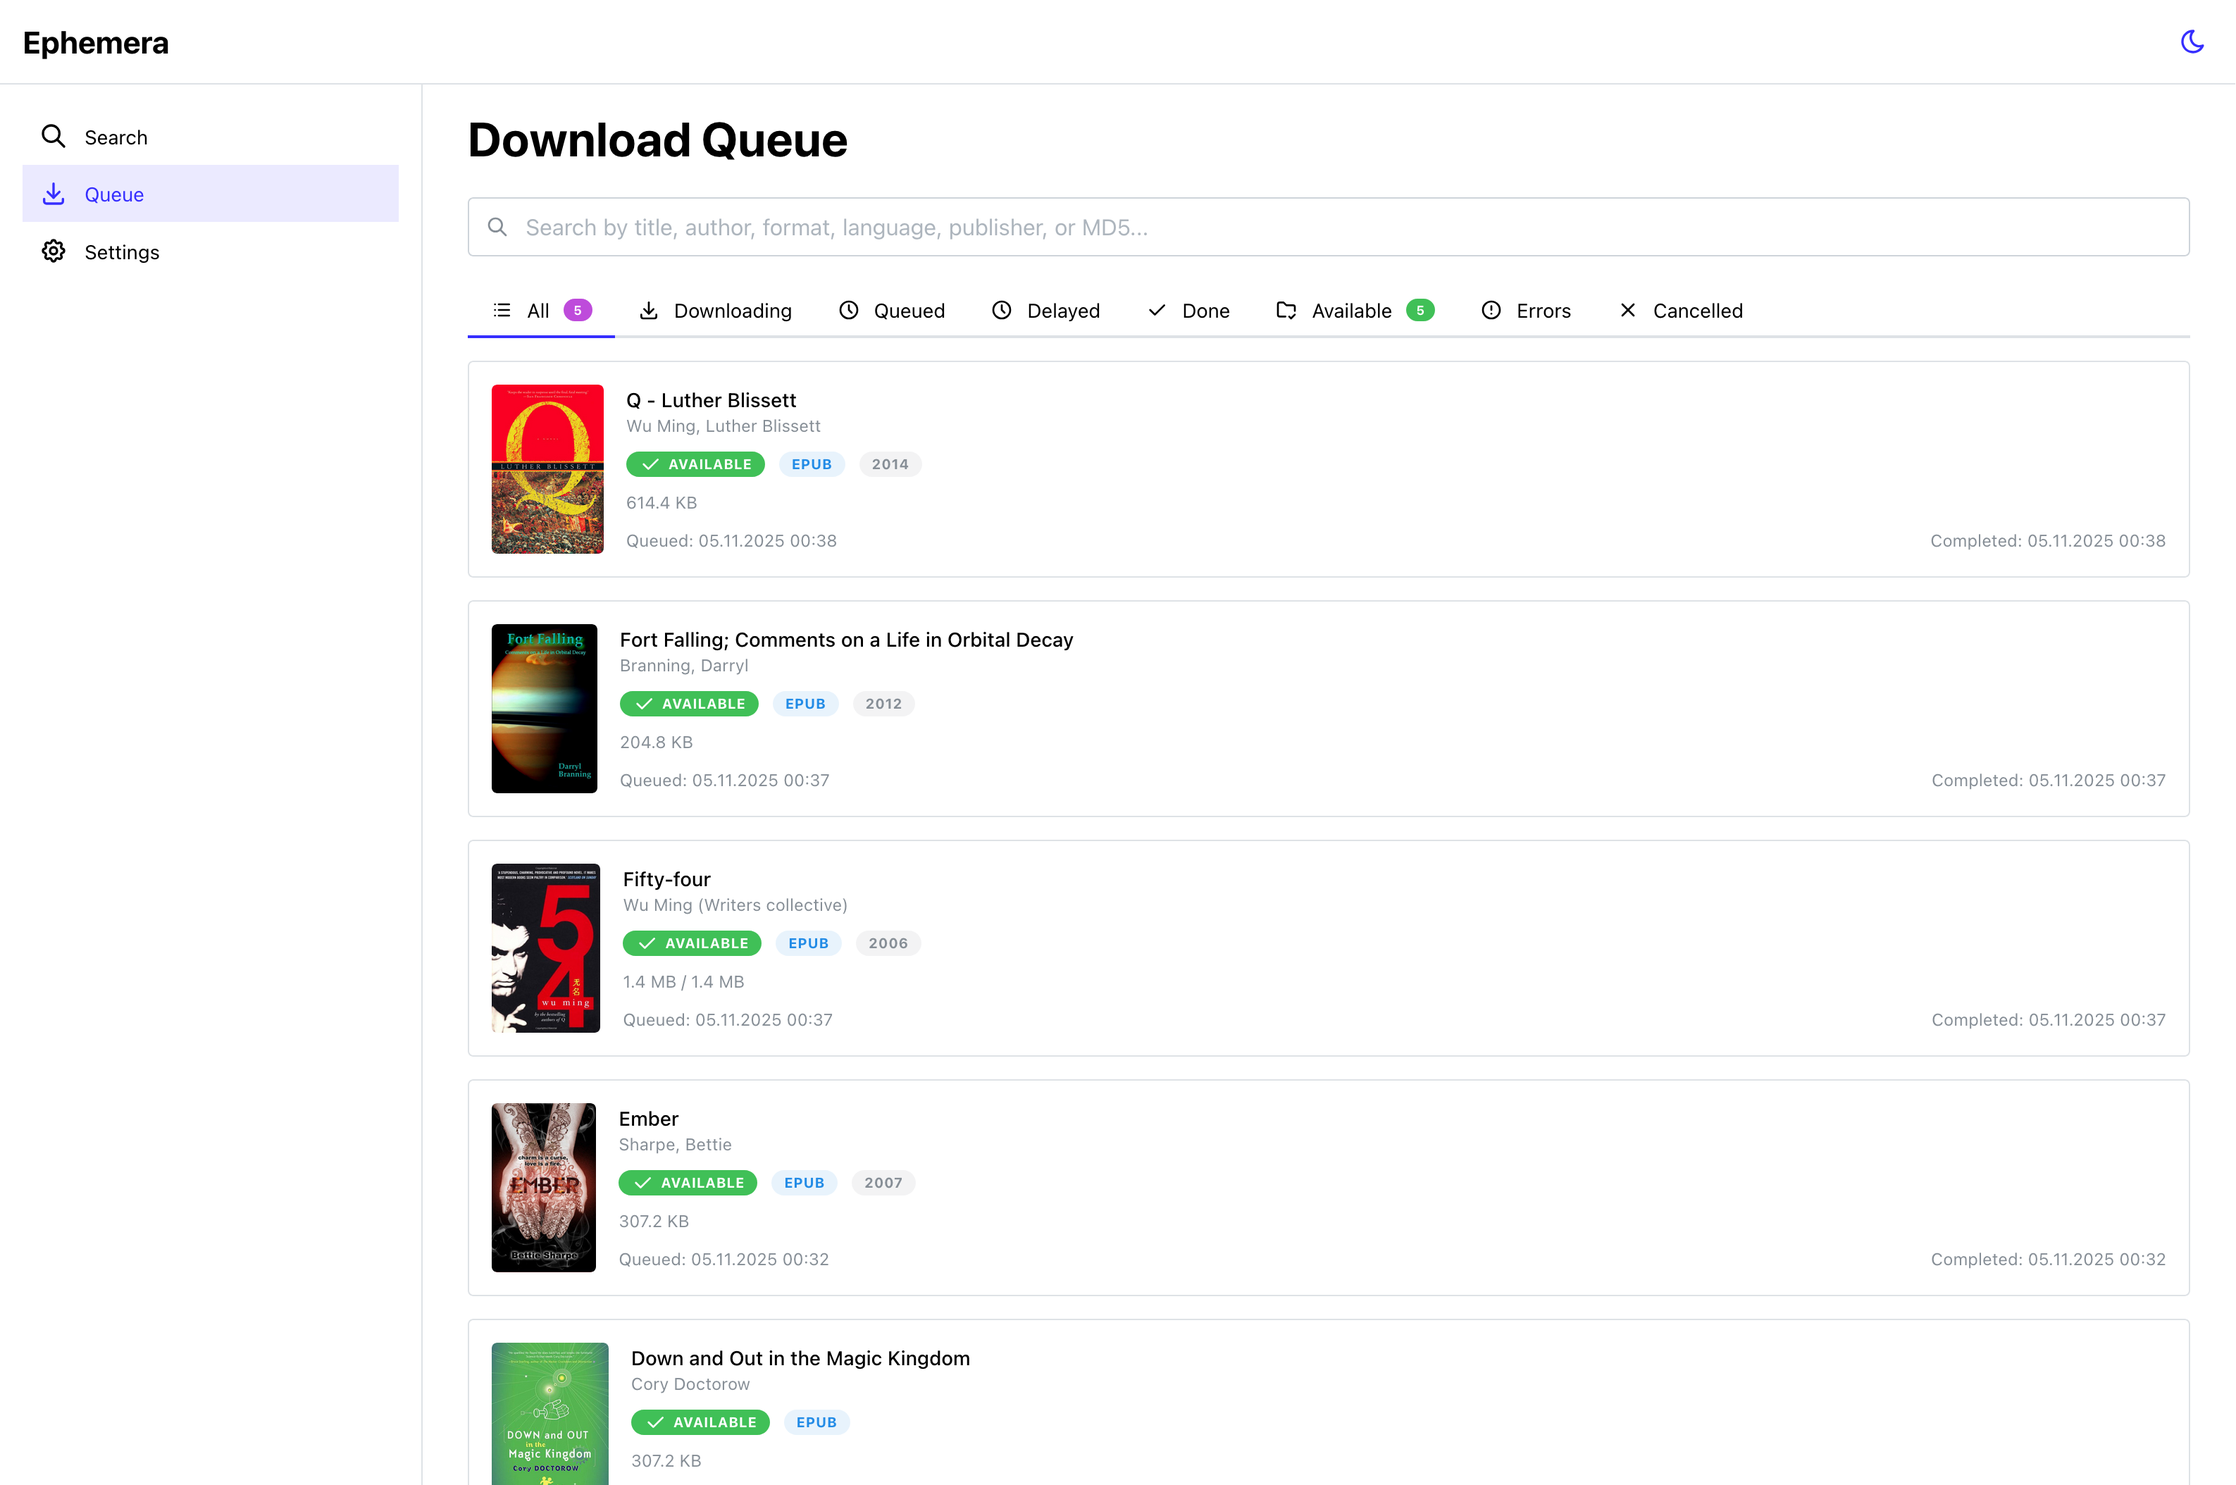
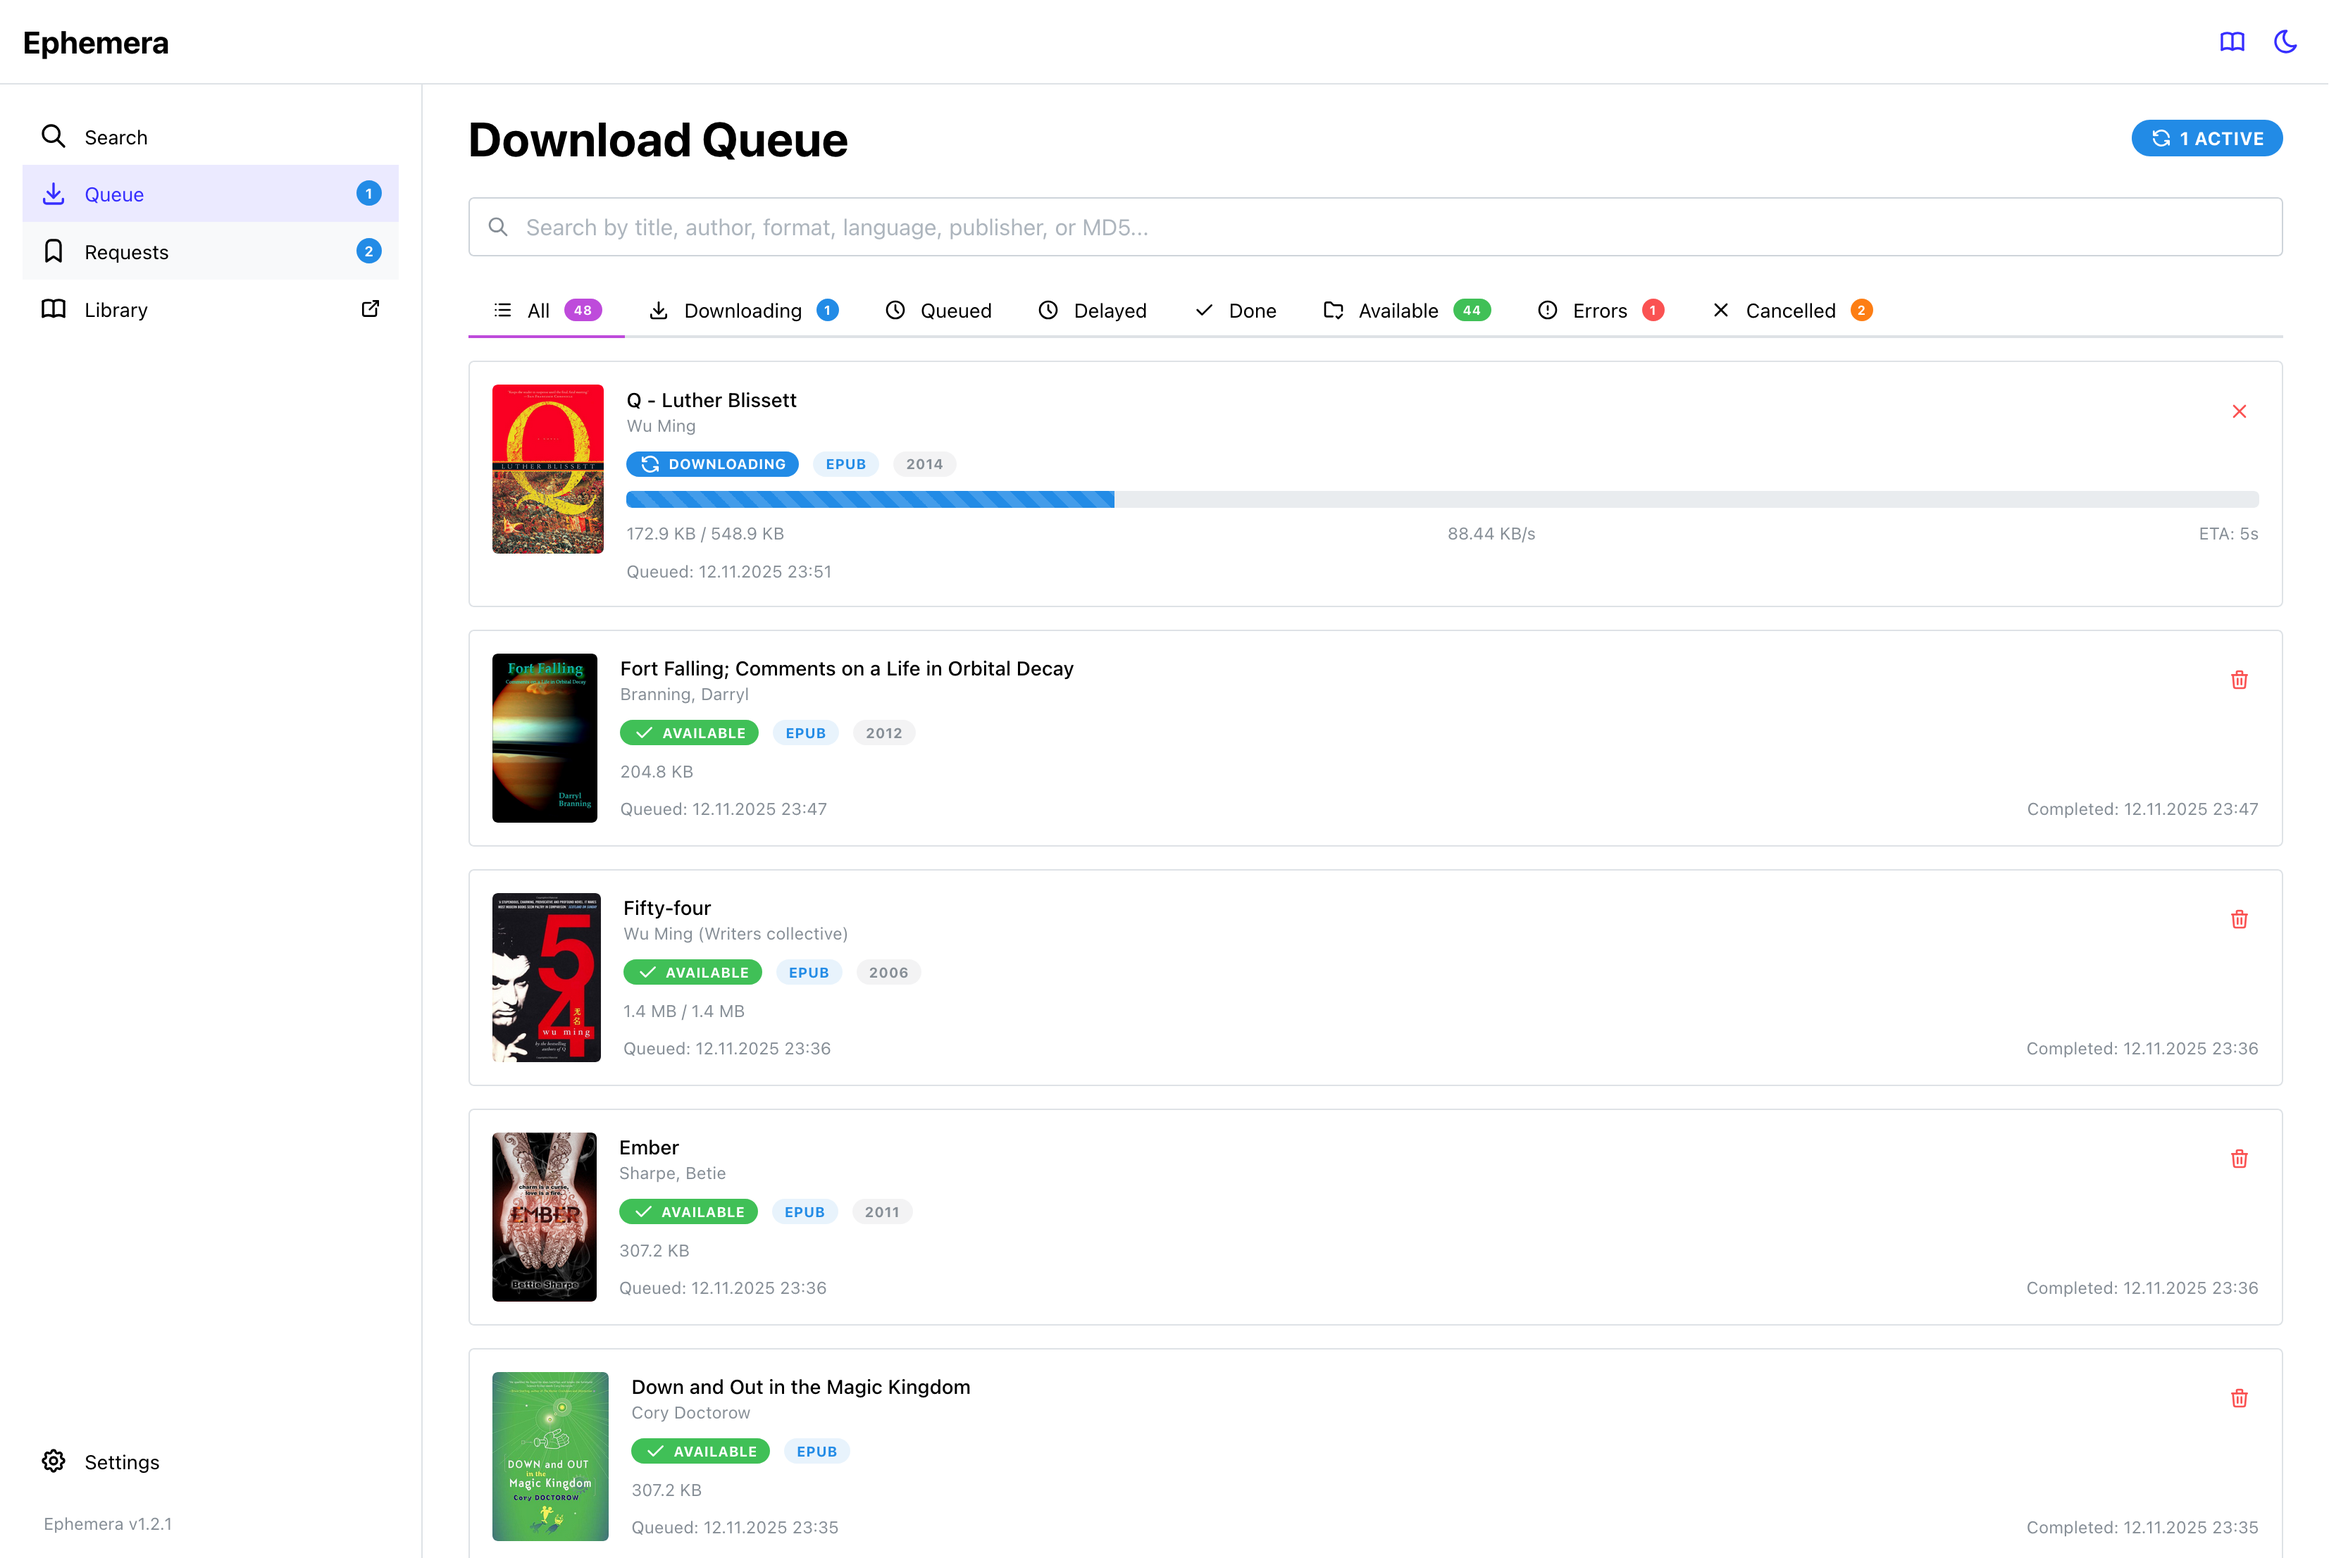
update preview screenshots

diff --git a/README.md b/README.md
@@ -8,6 +8,8 @@ Search and download books from your girl's favorite archive. Supports auto-move 
 
 ![Search](preview/ephemera-search.png)
 
+![Requests](preview/ephemera-requests.png)
+
 ![Settings](preview/ephemera-settings.png)
 
 </div>
